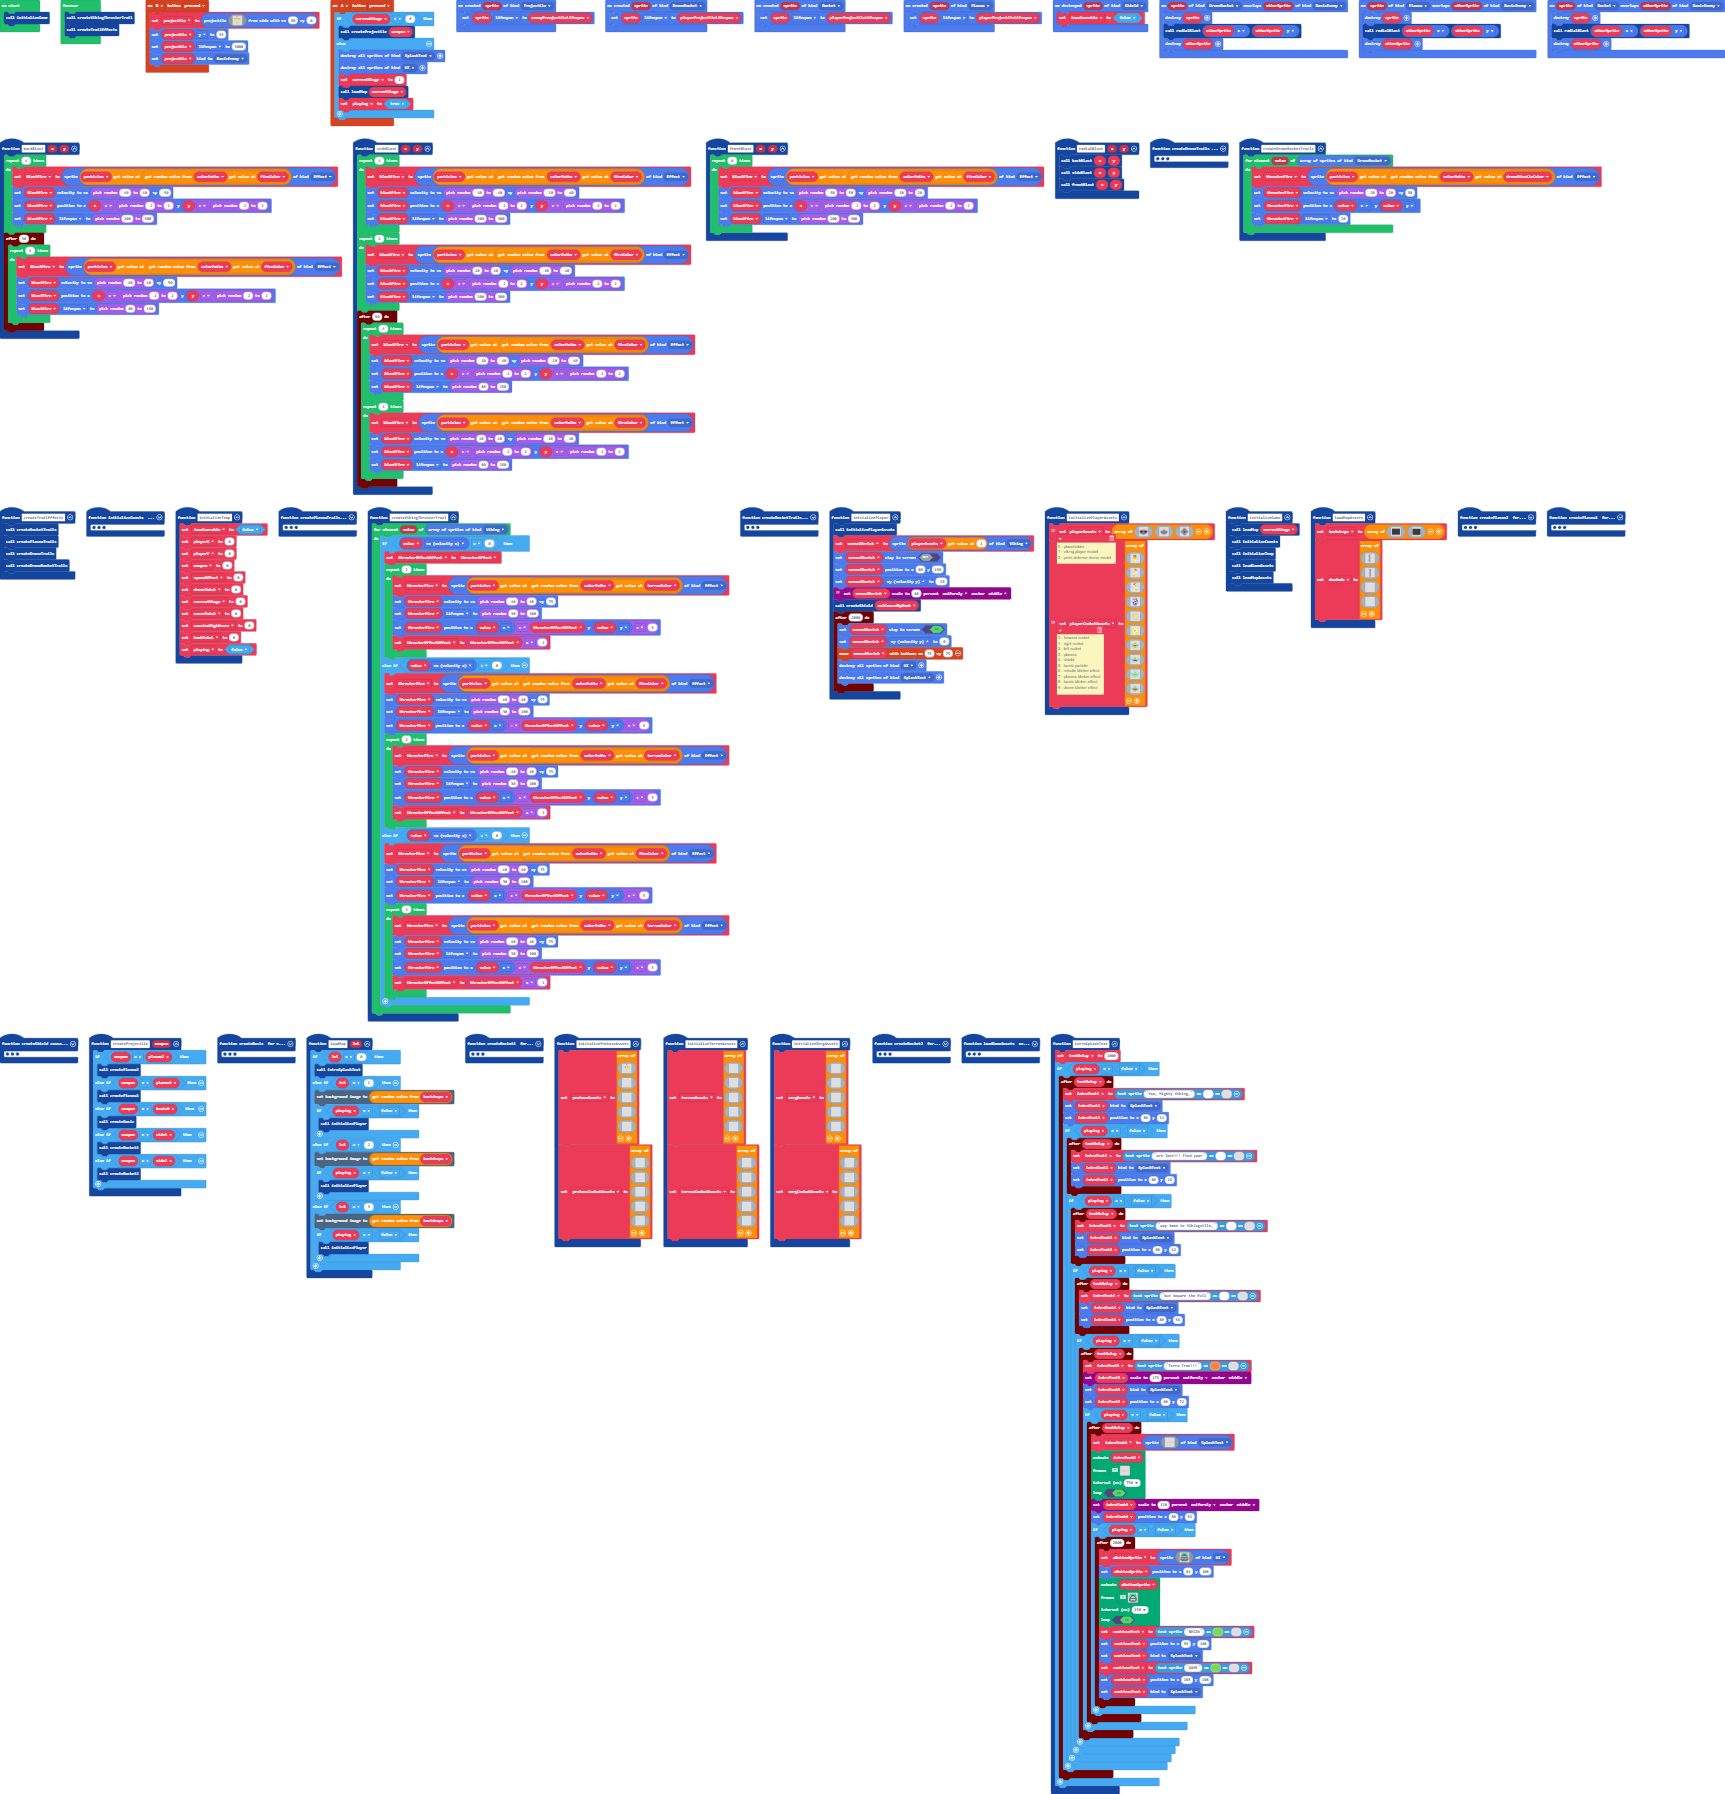
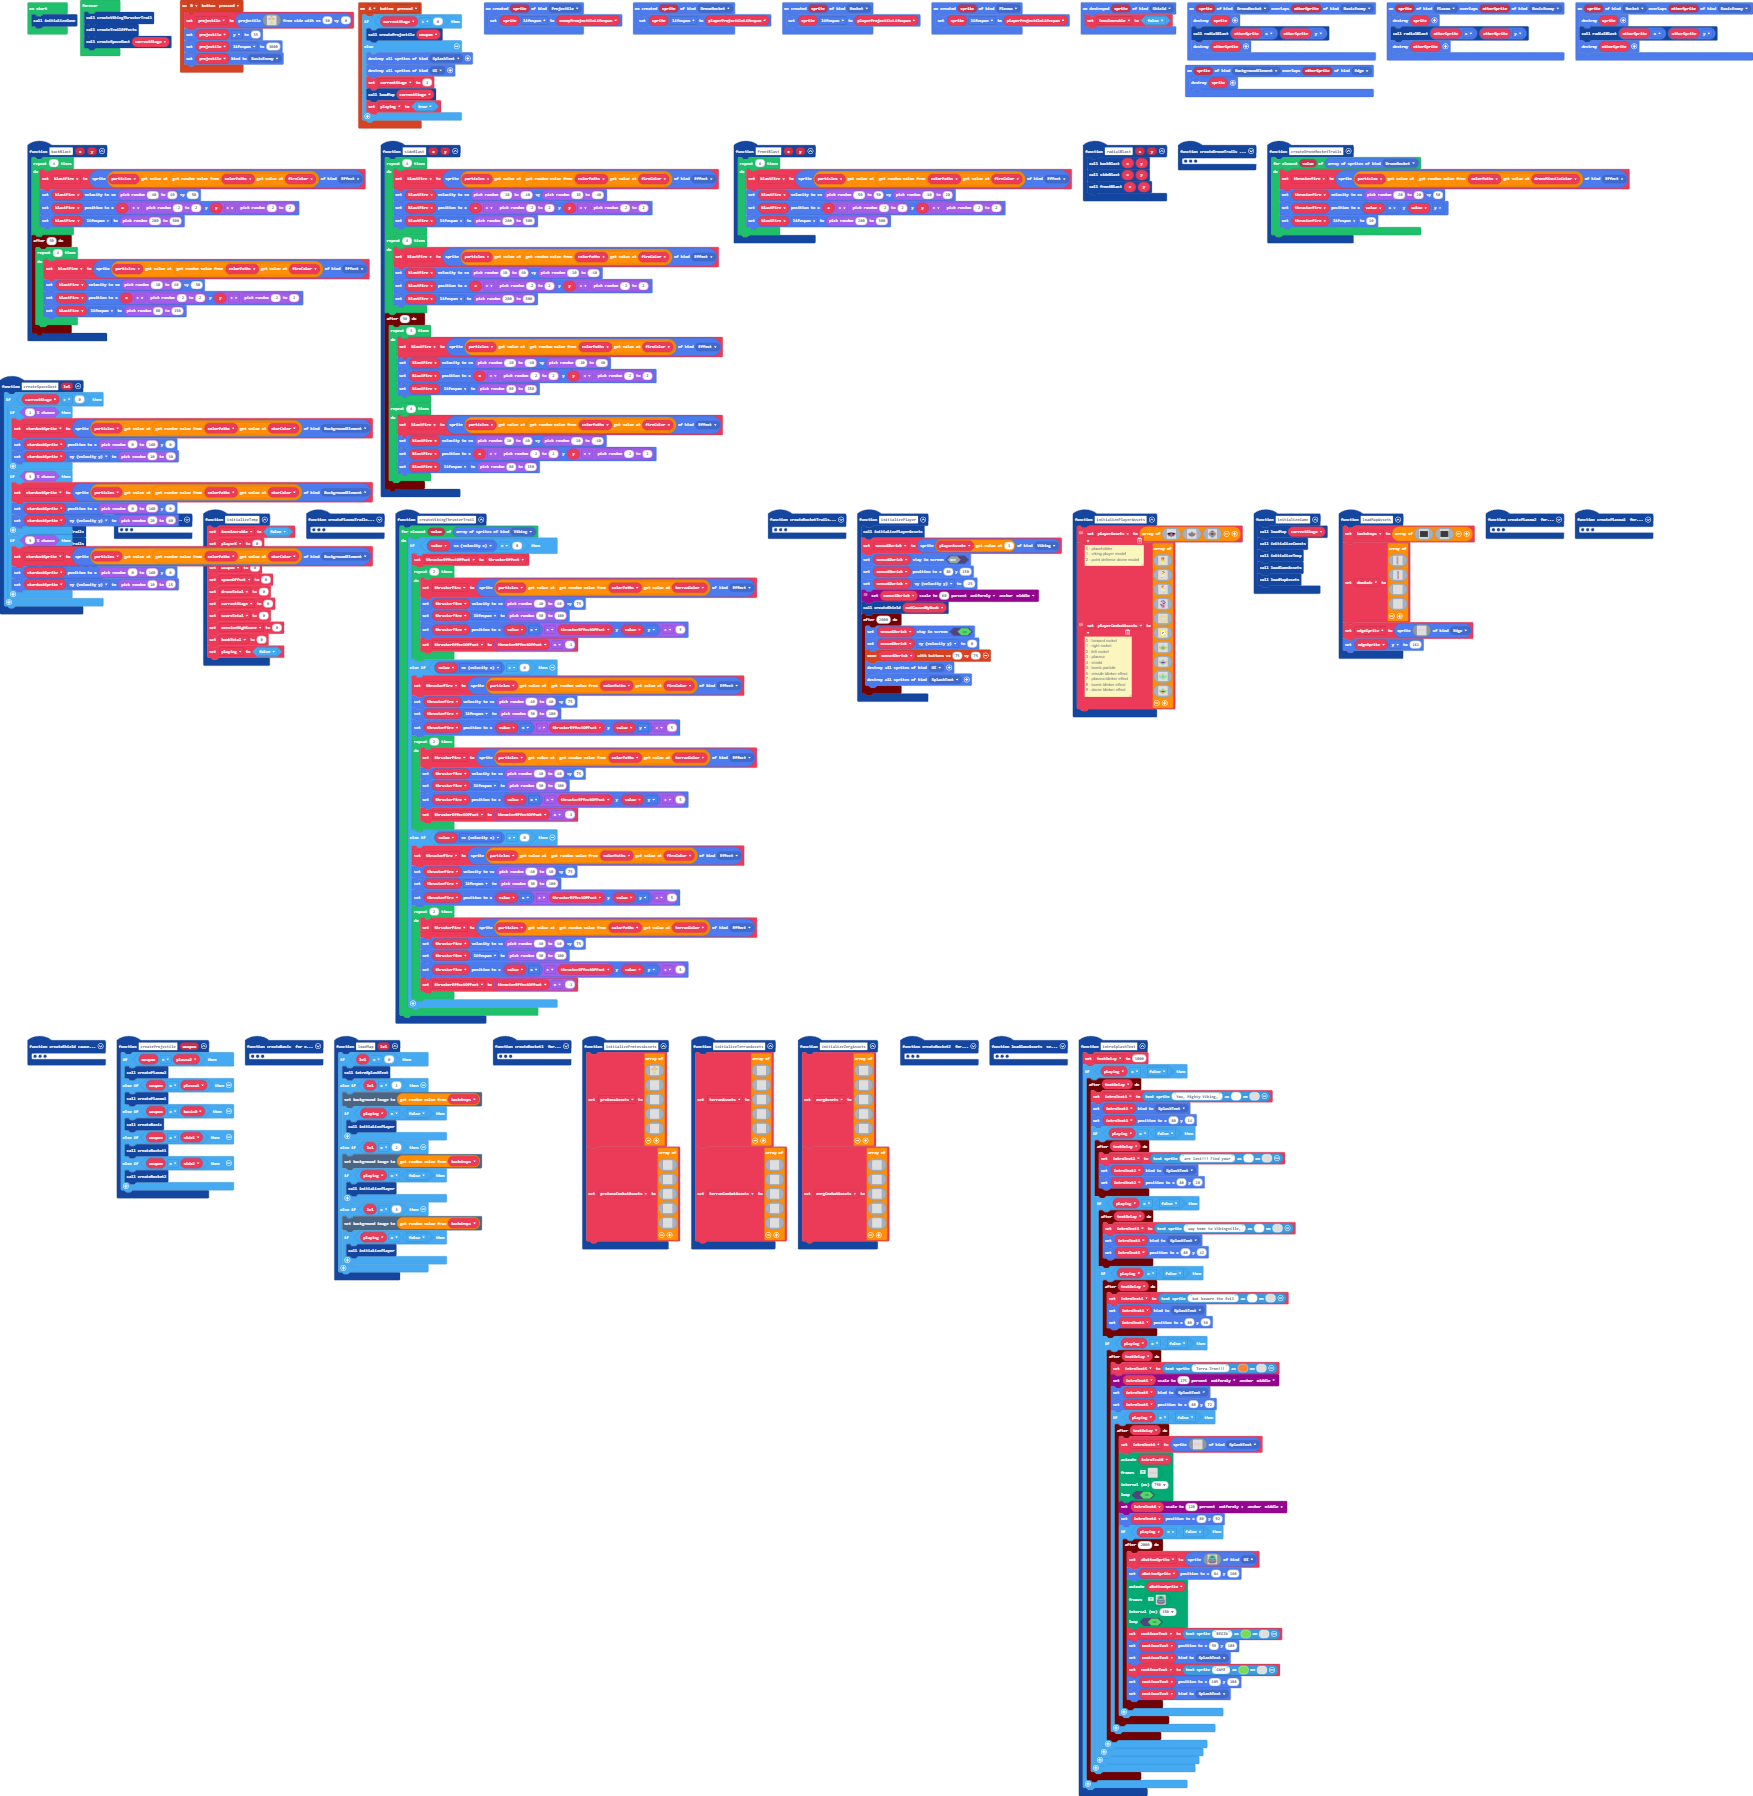
moving stars added

Changed region(s): [[0.0, 0.0, 1.0, 1.0], [0.4301, 0.2809, 0.9525, 0.4058], [0.6452, 0.9989, 0.6759, 1.0]]

diff --git a/main.ts b/main.ts
@@ -9,7 +9,12 @@ namespace SpriteKind {
     export const BasicEnemy = SpriteKind.create()
     export const SplashText = SpriteKind.create()
     export const UI = SpriteKind.create()
+    export const BackgroundElement = SpriteKind.create()
+    export const Edge = SpriteKind.create()
 }
+sprites.onOverlap(SpriteKind.BackgroundElement, SpriteKind.Edge, function (sprite, otherSprite) {
+    sprites.destroy(sprite)
+})
 function introSplashText () {
     textDelay = 1000
     if (playing == false) {
@@ -1011,6 +1016,10 @@ function loadMapAssets () {
         . . . . . . . . . . . . . . . . 
         `
     ]
+    edgeSprite = sprites.create(img`
+        f f f f f f f f f f f f f f f f f f f f f f f f f f f f f f f f f f f f f f f f f f f f f f f f f f f f f f f f f f f f f f f f f f f f f f f f f f f f f f f f f f f f f f f f f f f f f f f f f f f f f f f f f f f f f f f f f f f f f f f f f f f f f f f f f f f f f f f f f f f f f f f f f f f f f f f f f f f f f f f f 
+        `, SpriteKind.Edge)
+    edgeSprite.y = 161
 }
 function createShield (cause: boolean) {
     for (let value of sprites.allOfKind(SpriteKind.Viking)) {
@@ -1850,6 +1859,25 @@ function initializeProtossAssets () {
 sprites.onCreated(SpriteKind.Projectile, function (sprite) {
     sprite.lifespan = enemyProojectileLifespan
 })
+function createSpaceDust (lvl: number) {
+    if (currentStage > 0) {
+        if (Math.percentChance(1)) {
+            stardustSprite = sprites.create(particles2[colorPaths[starColor]._pickRandom()], SpriteKind.BackgroundElement)
+            stardustSprite.setPosition(randint(0, 160), 0)
+            stardustSprite.vy = randint(10, 30)
+        }
+        if (Math.percentChance(3)) {
+            stardustSprite = sprites.create(particles2[colorPaths[starColor]._pickRandom()], SpriteKind.BackgroundElement)
+            stardustSprite.setPosition(randint(0, 160), 0)
+            stardustSprite.vy = randint(20, 60)
+        }
+        if (Math.percentChance(3)) {
+            stardustSprite = sprites.create(particles2[colorPaths[starColor]._pickRandom()], SpriteKind.BackgroundElement)
+            stardustSprite.setPosition(randint(0, 160), 0)
+            stardustSprite.vy = randint(10, 15)
+        }
+    }
+}
 function loadGameAssets () {
     // 0 - missile powerup
     // 1 - bomb powerup
@@ -2059,6 +2087,7 @@ sprites.onCreated(SpriteKind.DroneRocket, function (sprite) {
 })
 let gameUIAssets: Image[] = []
 let supportAssets: Image[] = []
+let stardustSprite: Sprite = null
 let protossCombatAssets: Image[] = []
 let protossAssets: Image[] = []
 let bombTotal = 0
@@ -2071,6 +2100,7 @@ let zergCombatAssets: Image[] = []
 let zergAssets: Image[] = []
 let thrusterEffectOffset = 0
 let shieldSprite: Sprite = null
+let edgeSprite: Sprite = null
 let doodads: Image[] = []
 let thrusterFire: Sprite = null
 let starColor = 0
@@ -2130,4 +2160,5 @@ initializeGame()
 forever(function () {
     createVikingThrusterTrail()
     createTrailEffects()
+    createSpaceDust(currentStage)
 })
